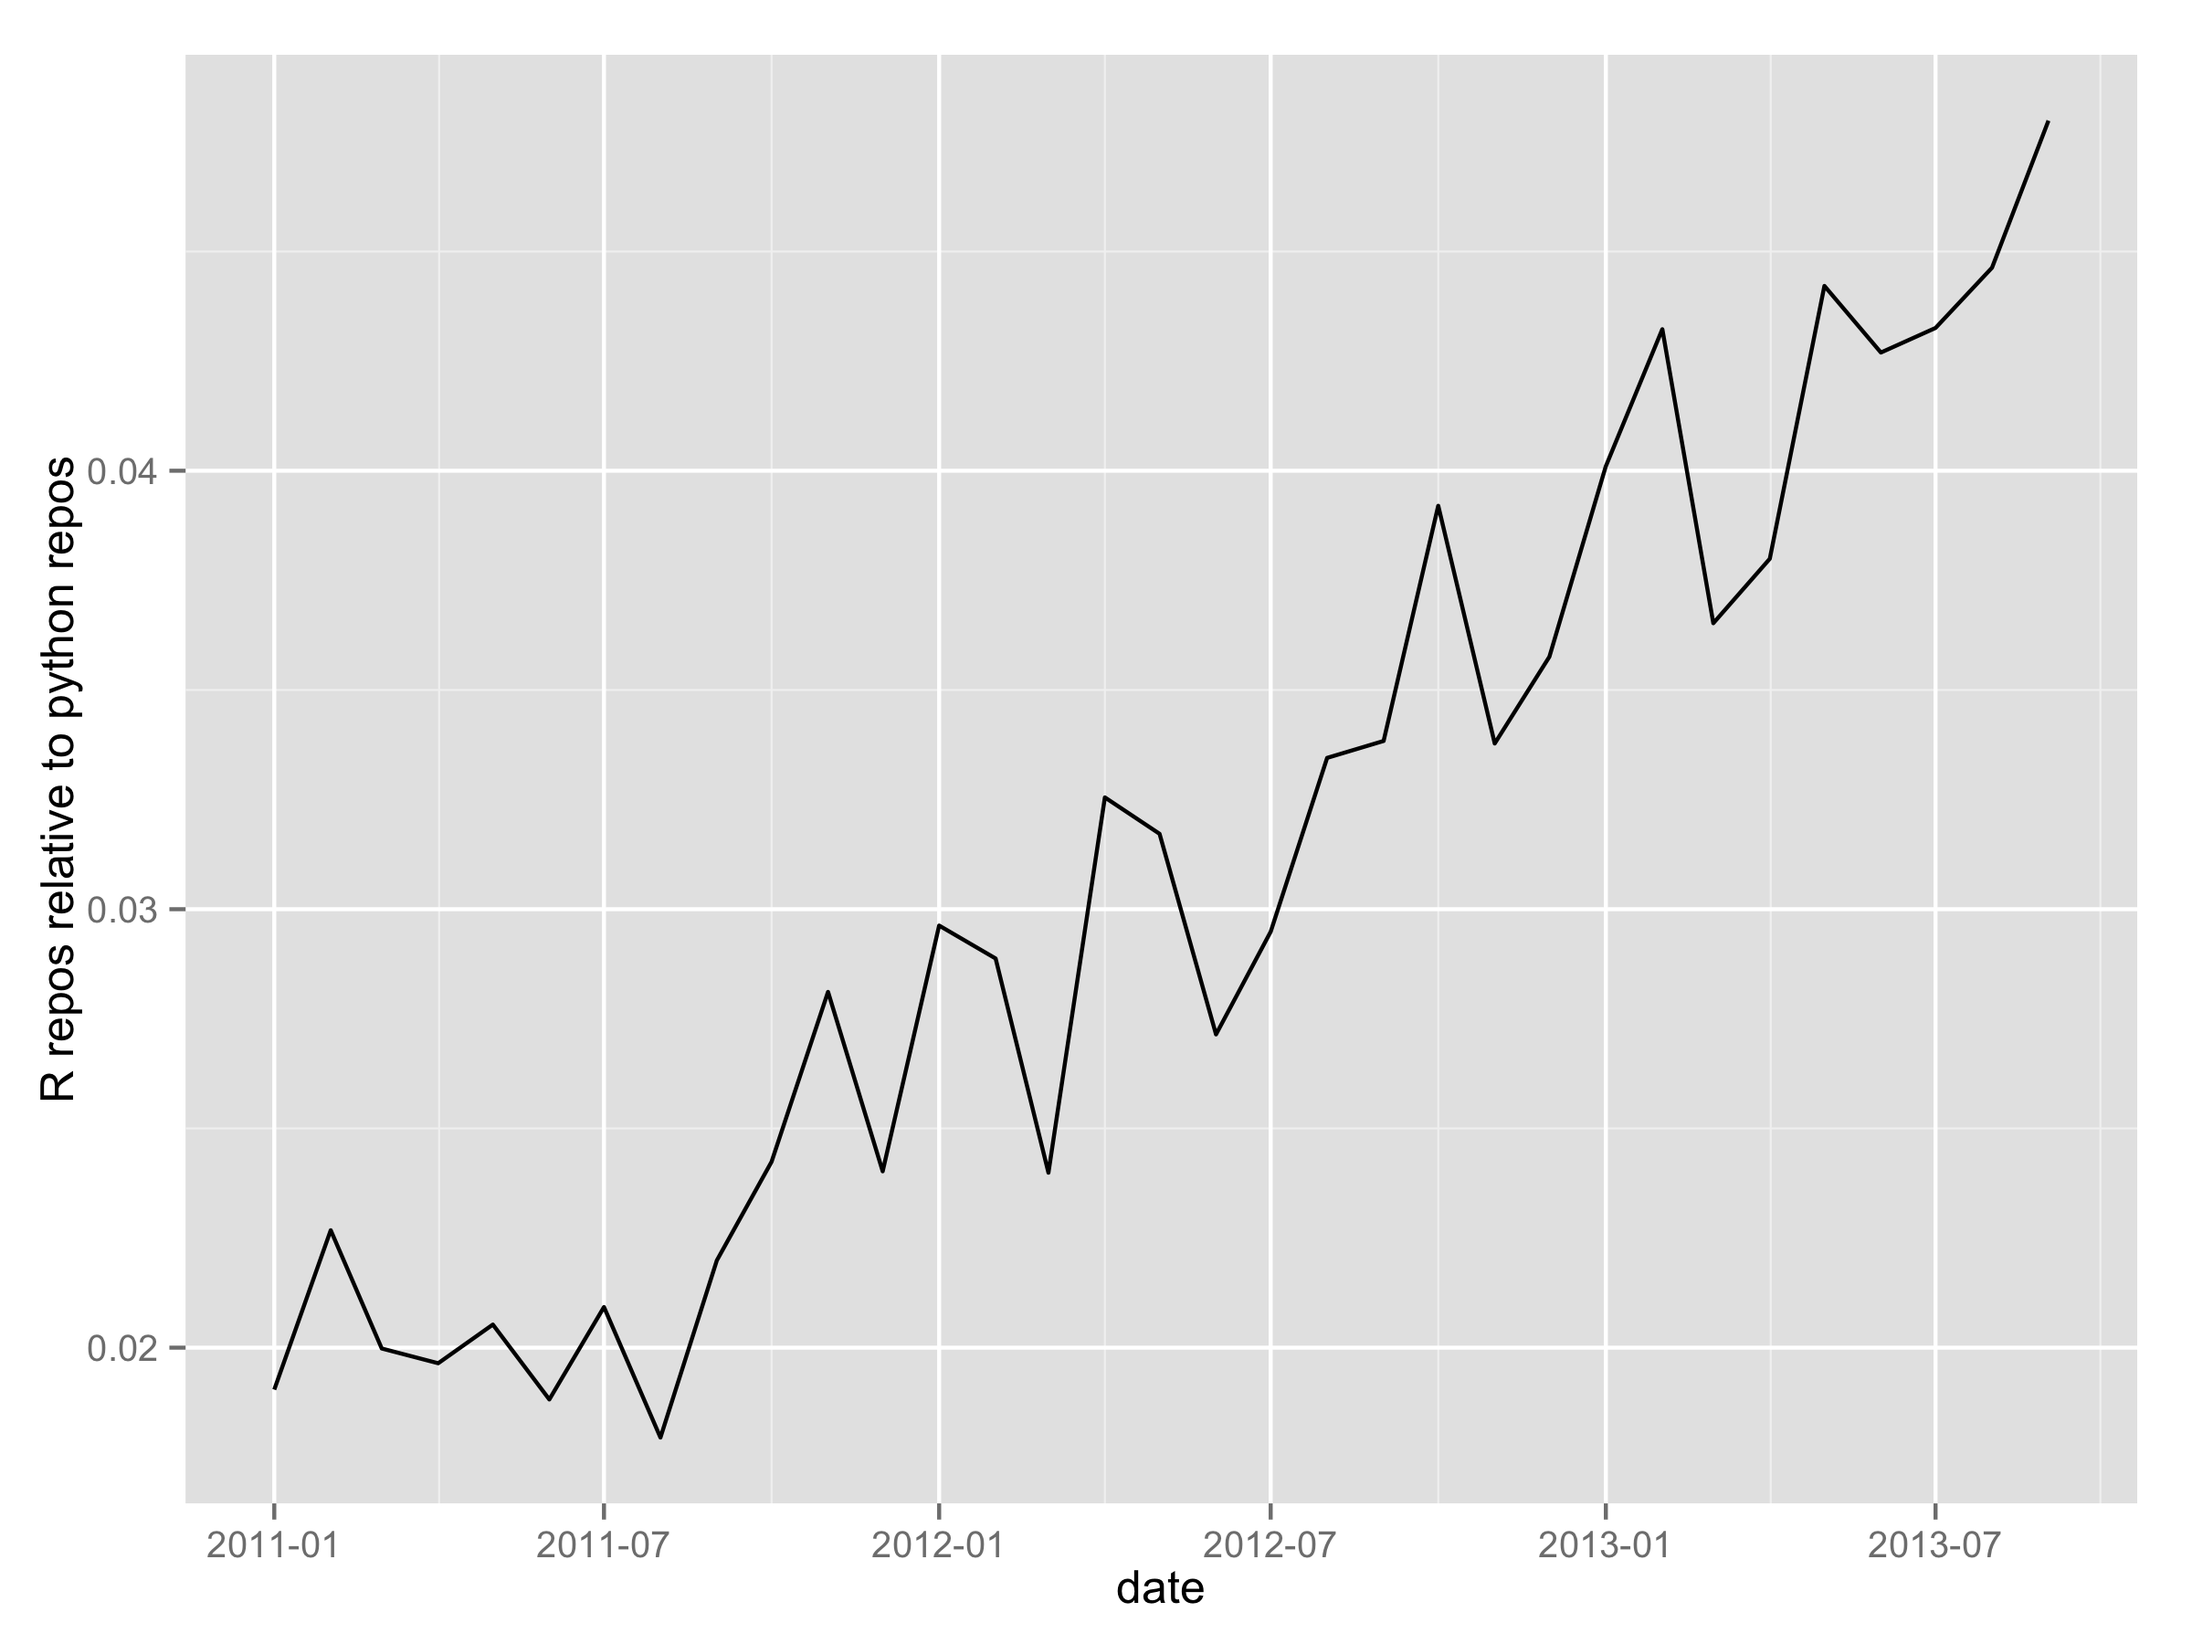
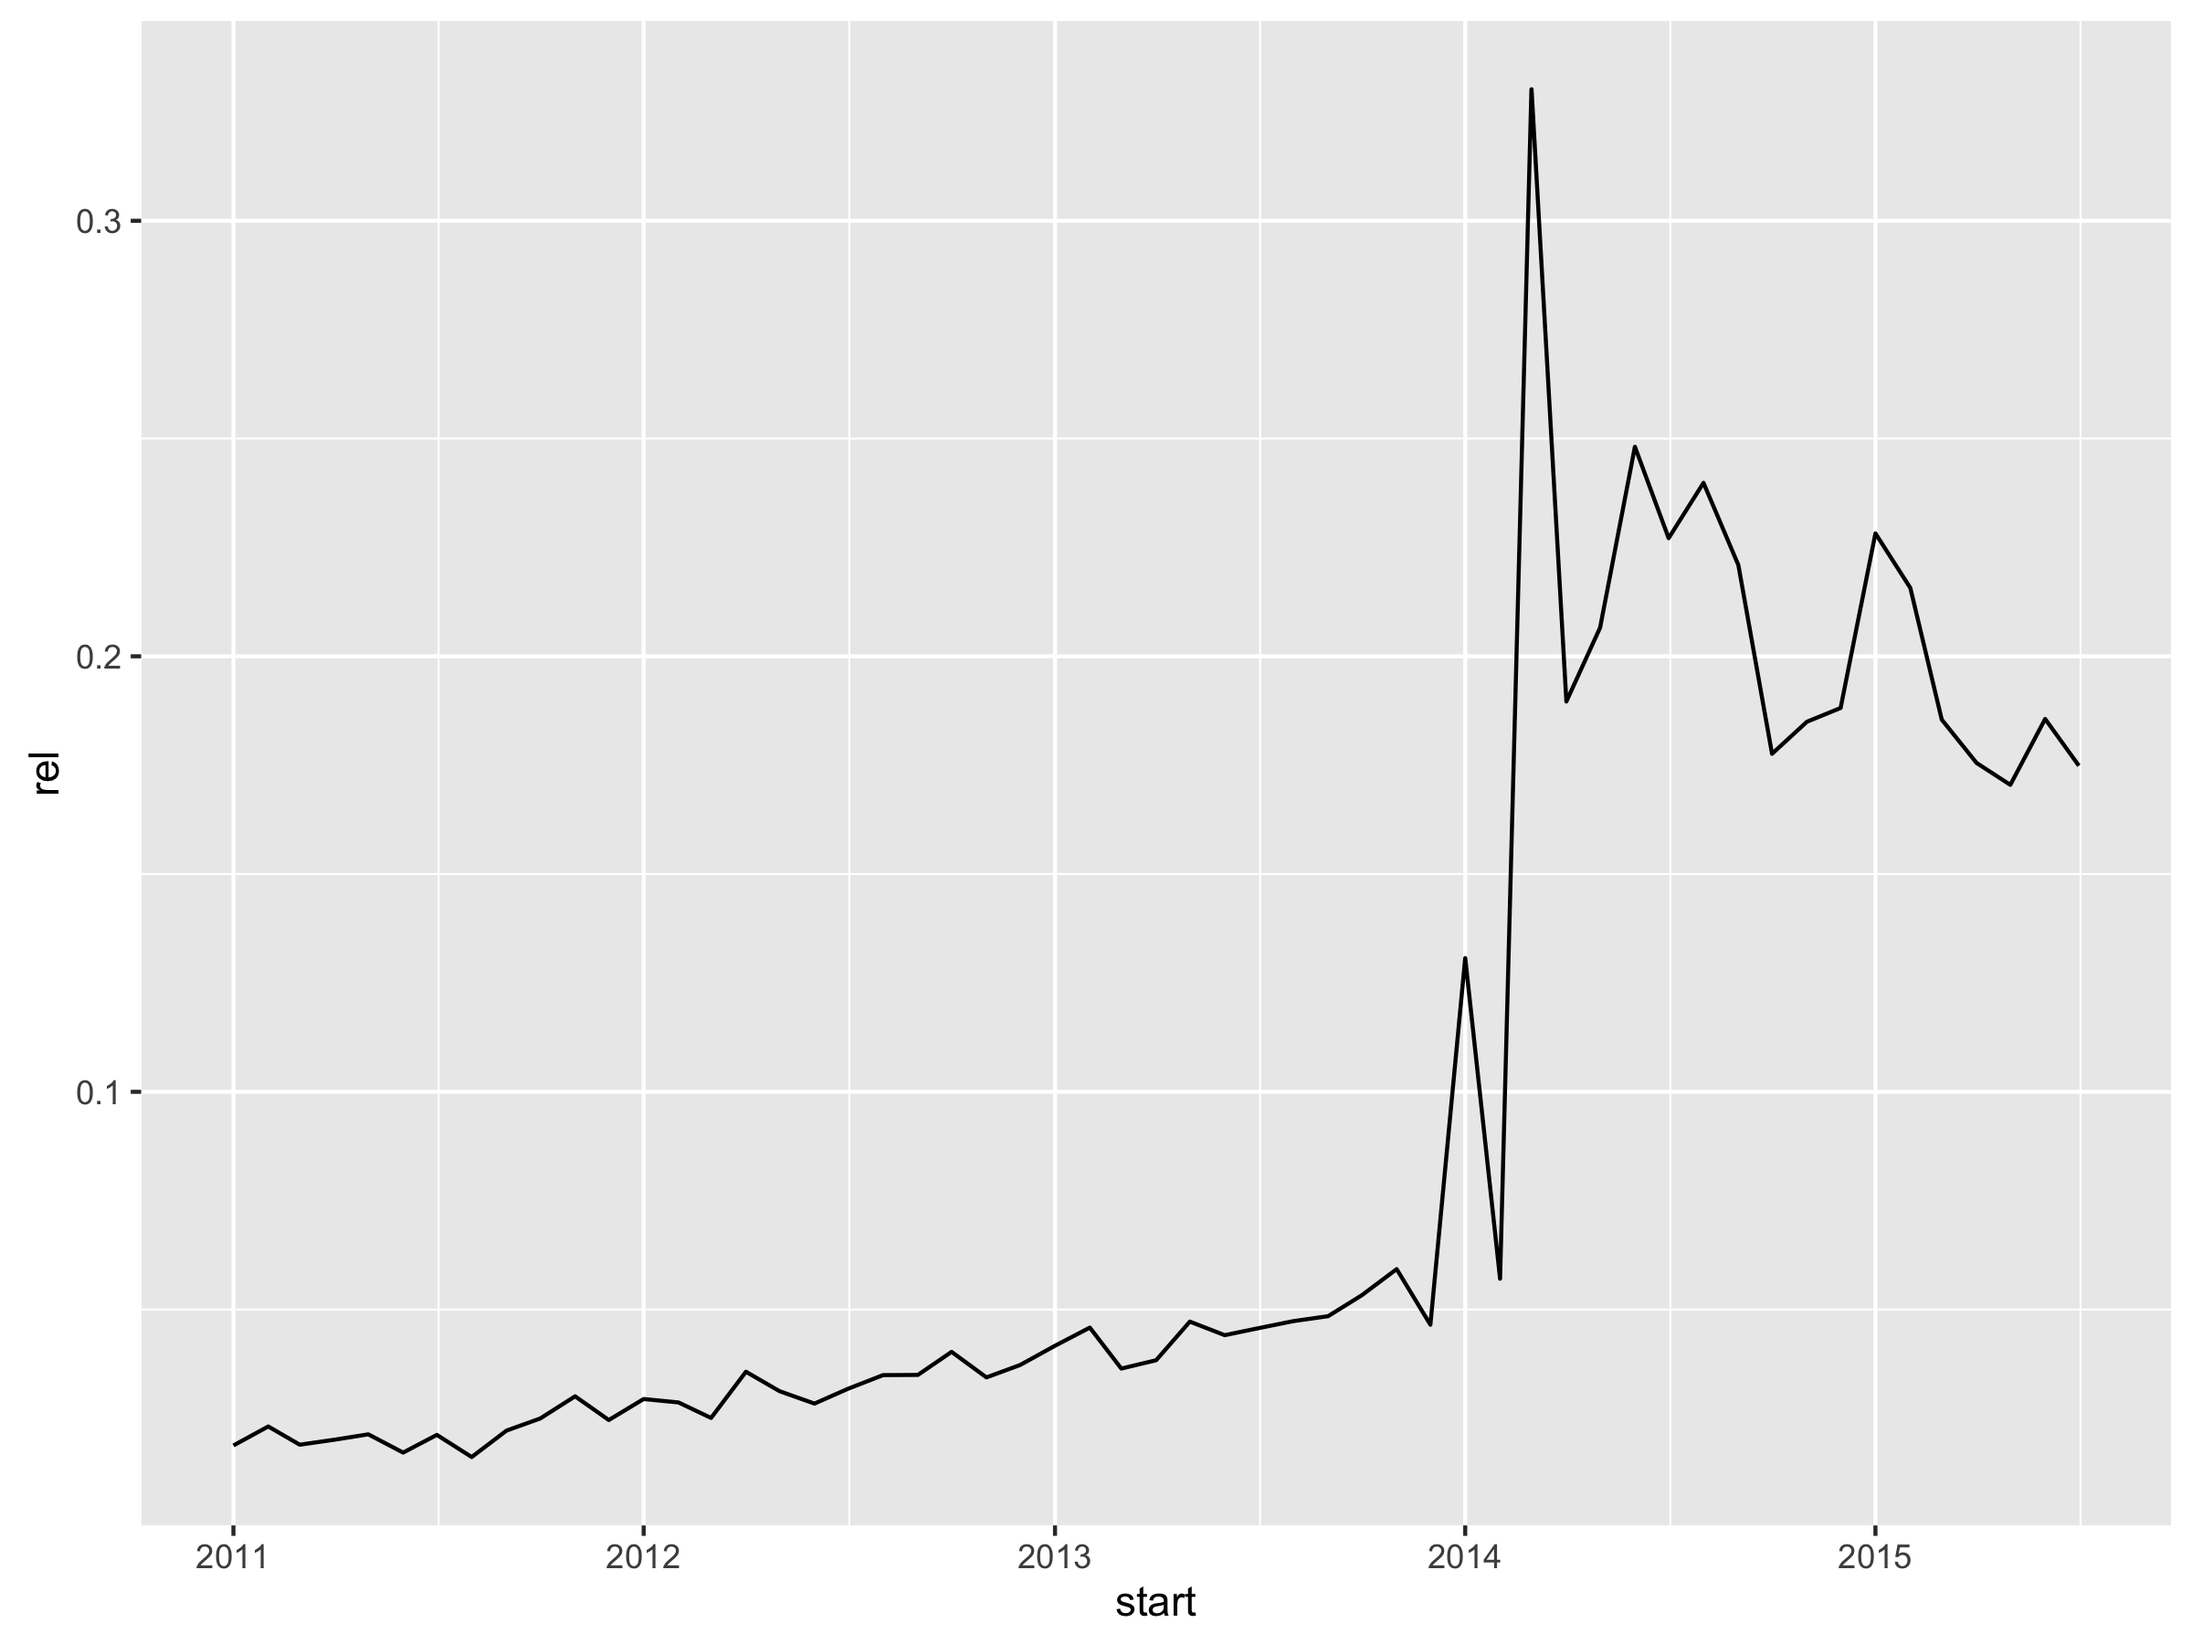
Update github analysis

diff --git a/README.md b/README.md
@@ -18,11 +18,11 @@ If we standardise the number of R questions by the number of python questions, w
 
 ## Github repos
 
-Again we see exponential growth in both repos containing R code and repos containing python code (these number don't include forks), but R repo's are relatively less common than R questions.
+Again we see exponential growth in both repos containing R code and repos containing python code (these number don't include forks), but R repo's are relatively less common than R questions. The big jump in repo creation in 2014 is probably due the [JHU coursera course](https://www.coursera.org/course/datascitoolbox).
 
 ![Explosive growth of R and python repos over time](images/github-raw.png)
 
-If we standardise the number of R repos by the number of python repos, we see that R is (slowly) catching up, but it's a long way behind.
+If we standardise the number of R repos by the number of python repos, we see that R has been decreasing since the big jump in 2015.
 
 ![R repos growing relative to python repos](images/github-rel.png) 
 
